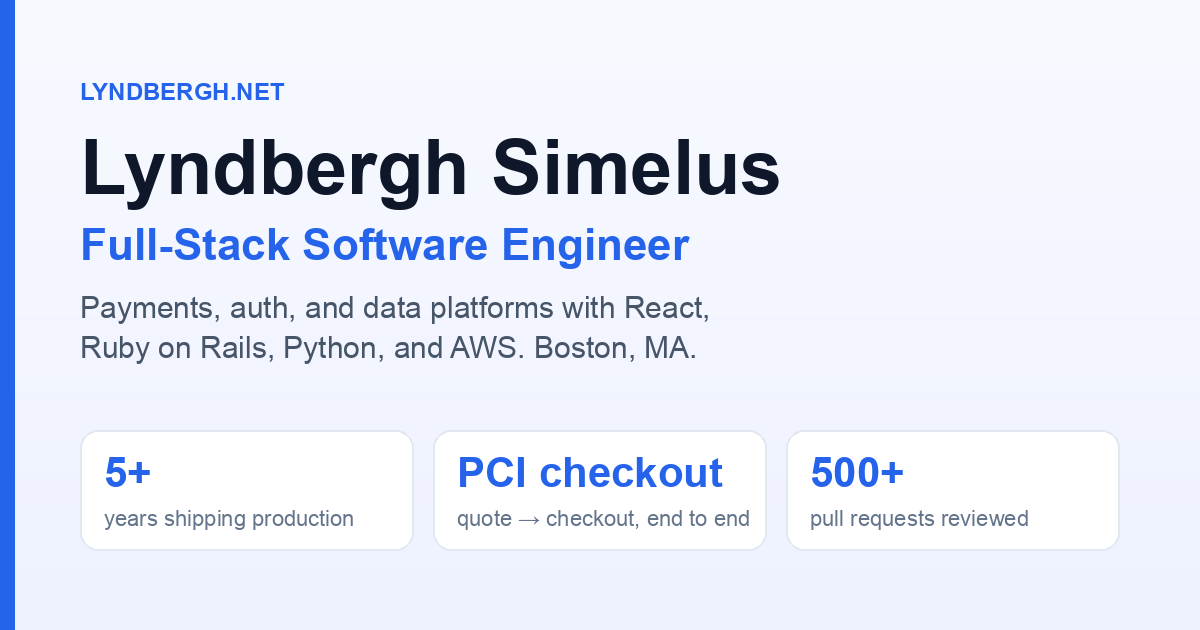
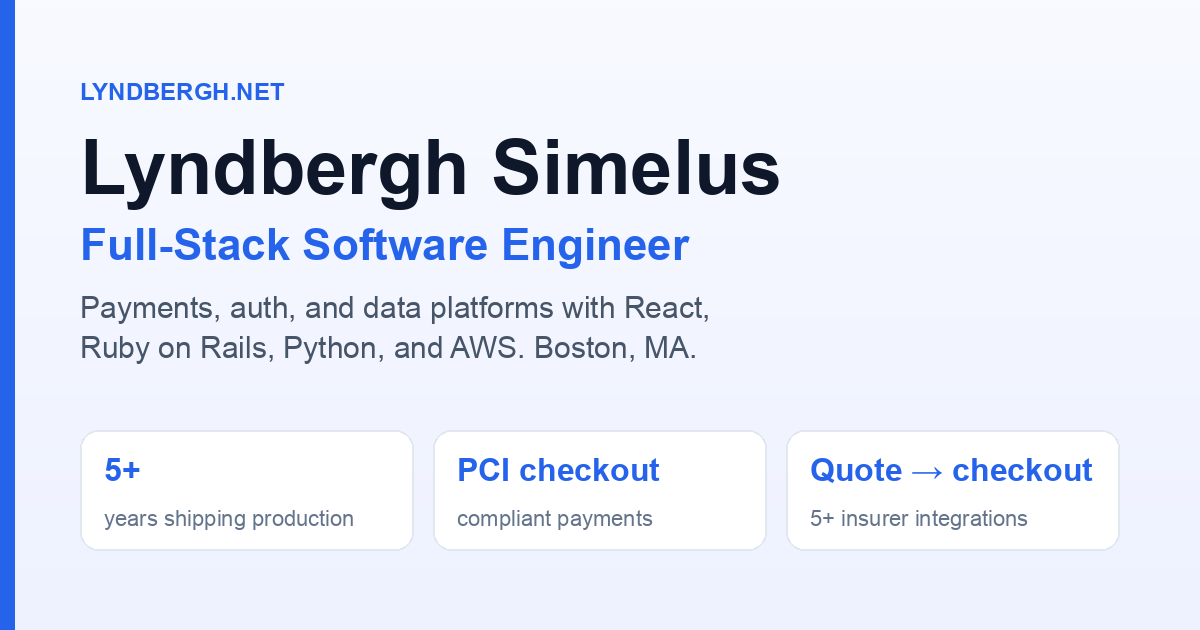
Refine hero highlight tiles
- Quote → checkout: 5+ third-party insurer integrations
- Large-scale migrations: 10+ reusable packages
- Rules as data + AI: add the Bedrock agent that answers questions about the rules
- Remove the 500+ pull requests tile
- Regenerate link-preview image to match

diff --git a/src/data/data.tsx b/src/data/data.tsx
@@ -30,10 +30,9 @@ export const profile: ProfileData = {
   stats: [
     { value: "5+", label: "years shipping production software" },
     { value: "PCI checkout", label: "compliant payment experience — card data never touches app storage" },
-    { value: "Quote → checkout", label: "customer-facing flow, built end to end" },
-    { value: "Large-scale migrations", label: "broke a legacy pricing library into 9 reusable packages, in small steps that never broke the apps using it" },
-    { value: "Rules as data", label: "moved insurance pricing rules out of code into a versioned database, so changes ship without a code release" },
-    { value: "500+", label: "pull requests reviewed" },
+    { value: "Quote → checkout", label: "5+ third-party insurer integrations, quoting and selling their products end to end" },
+    { value: "Large-scale migrations", label: "broke a legacy pricing library into 10+ reusable packages, in small steps that never broke the apps using it" },
+    { value: "Rules as data + AI", label: "moved insurance pricing rules out of code into a versioned database, then built an AWS Bedrock AI agent that answers questions about them" },
   ],
 }
 
